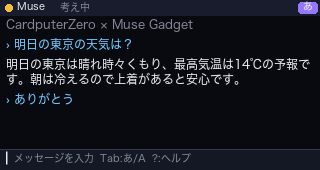
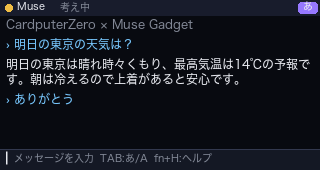
Map CardputerZero keys found on a real device (v0.1.1)
fn (389) and sym (383) are layer keys, fn+H sends KEY_HELP (138) and
sym+M sends 93 for '?'. Help now opens with fn+H. --debug-keys shows
what each code maps to, and prints to the terminal when run from one.

Changed region(s): [[0.3125, 0.8824, 0.6562, 0.9706]]

diff --git a/src/czmuse/render.py b/src/czmuse/render.py
@@ -163,7 +163,7 @@ class Renderer:
         d.line([0, box_top, w, box_top], fill=(50, 56, 78))
         y = box_top + 3
         if not state.input_text and not state.pending:
-            hint = "メッセージを入力  Tab:あ/A  ?:ヘルプ"
+            hint = "メッセージを入力  TAB:あ/A  fn+H:ヘルプ"
             d.text((6, y), "▏", font=self.font, fill=FG)
             d.text((14, y + 1), hint, font=self.small, fill=DIM)
         else:
@@ -217,12 +217,13 @@ class Renderer:
     def _draw_help(self, d: ImageDraw.ImageDraw) -> None:
         w, h = self.size
         rows = [
-            ("Enter", "送信"),
-            ("Tab", "英数 ⇄ ローマ字かな"),
-            ("↑ ↓", "スクロール"),
-            ("Ctrl+L", "表示をクリア"),
-            ("Esc", "入力を消す / 閉じる"),
-            ("Ctrl+Q", "終了"),
+            ("OK", "送信"),
+            ("TAB", "英数 ⇄ ローマ字かな"),
+            ("fn+F/X", "スクロール ▲▼"),
+            ("fn+L/M", "ページ送り"),
+            ("ctrl+L", "表示をクリア"),
+            ("ESC", "入力を消す / 閉じる"),
+            ("ctrl+Q", "終了"),
         ]
         d.rounded_rectangle([20, 18, w - 20, h - 8], radius=6, fill=(16, 18, 30), outline=ACCENT)
         y = 24

diff --git a/src/czmuse/keys.py b/src/czmuse/keys.py
@@ -45,20 +45,27 @@ CHAR_KEYS = {
     44: ("z", "Z"), 45: ("x", "X"), 46: ("c", "C"), 47: ("v", "V"), 48: ("b", "B"),
     49: ("n", "N"), 50: ("m", "M"), 51: (",", "<"), 52: (".", ">"), 53: ("/", "?"),
     57: (" ", " "),
+    # CardputerZero sym layer (reported by the TCA8418 keymap with these codes)
+    93: ("?", "?"),      # sym+M
 }
 
 SPECIAL_KEYS = {
     1: "esc", 14: "backspace", 15: "tab", 28: "enter", 96: "enter",
     102: "home", 103: "up", 104: "pageup", 105: "left", 106: "right",
     107: "end", 108: "down", 109: "pagedown", 111: "delete",
+    138: "help",          # fn+H on CardputerZero
 }
 
 SHIFT_CODES = {42, 54}
 CTRL_CODES = {29, 97}
 ALT_CODES = {56, 100}
 CAPSLOCK = 58
+# CardputerZero layer keys: fn (389) and sym (383); the kernel keymap
+# already applies them (fn+F arrives as KEY_UP), so they are just ignored.
+FN_CODES = {389, 464}
+SYM_CODES = {383}
 # Pure modifiers that never produce an event of their own.
-MODIFIER_CODES = SHIFT_CODES | CTRL_CODES | ALT_CODES | {CAPSLOCK, 125, 126, 464}
+MODIFIER_CODES = SHIFT_CODES | CTRL_CODES | ALT_CODES | FN_CODES | SYM_CODES | {CAPSLOCK, 125, 126}
 
 
 class KeyTranslator:

diff --git a/src/czmuse/display.py b/src/czmuse/display.py
@@ -164,9 +164,11 @@ class FramebufferDisplay:
                 _s, _u, etype, code, value = struct.unpack(_EV_FMT, data[off:off + _EV_SIZE])
                 if etype != _EV_KEY:
                     continue
-                if self._debug_keys and value == 1:
-                    print(f"czmuse: key code={code}", file=sys.stderr)
                 event = self._translator.feed(code, value)
+                if self._debug_keys and value == 1:
+                    what = "modifier" if event is None else (
+                        repr(event.char) if event.name == "char" else event.name)
+                    print(f"czmuse: key code={code} -> {what}", file=sys.stderr, flush=True)
                 if event is not None:
                     events.append(event)
         return events

diff --git a/tests/test_app.py b/tests/test_app.py
@@ -182,3 +182,21 @@ def test_notify_roundtrip(sock_dir):
         server.close()
     assert got == [{"op": "ping"}]
     assert not path.exists()
+
+
+def test_cardputer_zero_keycodes():
+    """Codes reported by a real CardputerZero (fn=389, sym=383, fn+H=138, sym+M=93)."""
+    t = KeyTranslator()
+    assert t.feed(389, 1) is None          # fn alone
+    assert t.feed(103, 1).name == "up"     # fn+F
+    assert t.feed(389, 0) is None
+    assert t.feed(138, 1).name == "help"   # fn+H
+    assert t.feed(383, 1) is None          # sym alone
+    assert t.feed(93, 1).char == "?"       # sym+M
+
+
+def test_help_key_opens_help():
+    display = HeadlessDisplay([KeyEvent("help")])
+    app = ChatApp(display, FakeMuse())
+    app.tick(0.01)
+    assert app.help_visible

diff --git a/scripts/build_deb.py b/scripts/build_deb.py
@@ -86,8 +86,10 @@ def build(output_dir: Path) -> Path:
         data.add(f"{app_dir}/czmuse/{src.name}", src.read_bytes())
     data.add(f"/{PREFIX}/bin/{bin_name}", (
         "#!/bin/sh\n"
-        "# Launched by APPLaunch. Logs go to /tmp/czmuse.log for troubleshooting.\n"
+        "# Launched by APPLaunch. Logs go to /tmp/czmuse.log for troubleshooting;\n"
+        "# run from a terminal, they go to the terminal instead.\n"
         f"export PYTHONPATH={app_dir}\n"
+        'if [ -t 2 ]; then exec python3 -m czmuse "$@"; fi\n'
         'exec python3 -m czmuse "$@" 2>>/tmp/czmuse.log\n').encode(), 0o755)
     data.add(f"/{PREFIX}/bin/czmuse-command", (
         "#!/bin/sh\n"

diff --git a/src/czmuse/app.py b/src/czmuse/app.py
@@ -141,7 +141,7 @@ class ChatApp:
         if self.help_visible:
             self.help_visible = False
             return
-        if ev.ctrl and ev.char in ("h", "H"):
+        if ev.name == "help" or (ev.ctrl and ev.char in ("h", "H")):
             self.help_visible = True
             return
         if ev.ctrl and ev.char in ("l", "L"):

diff --git a/src/czmuse/__init__.py b/src/czmuse/__init__.py
@@ -1,3 +1,3 @@
 """Muse Gadget front-end for M5Stack CardputerZero."""
 
-__version__ = "0.1.0"
+__version__ = "0.1.1"
